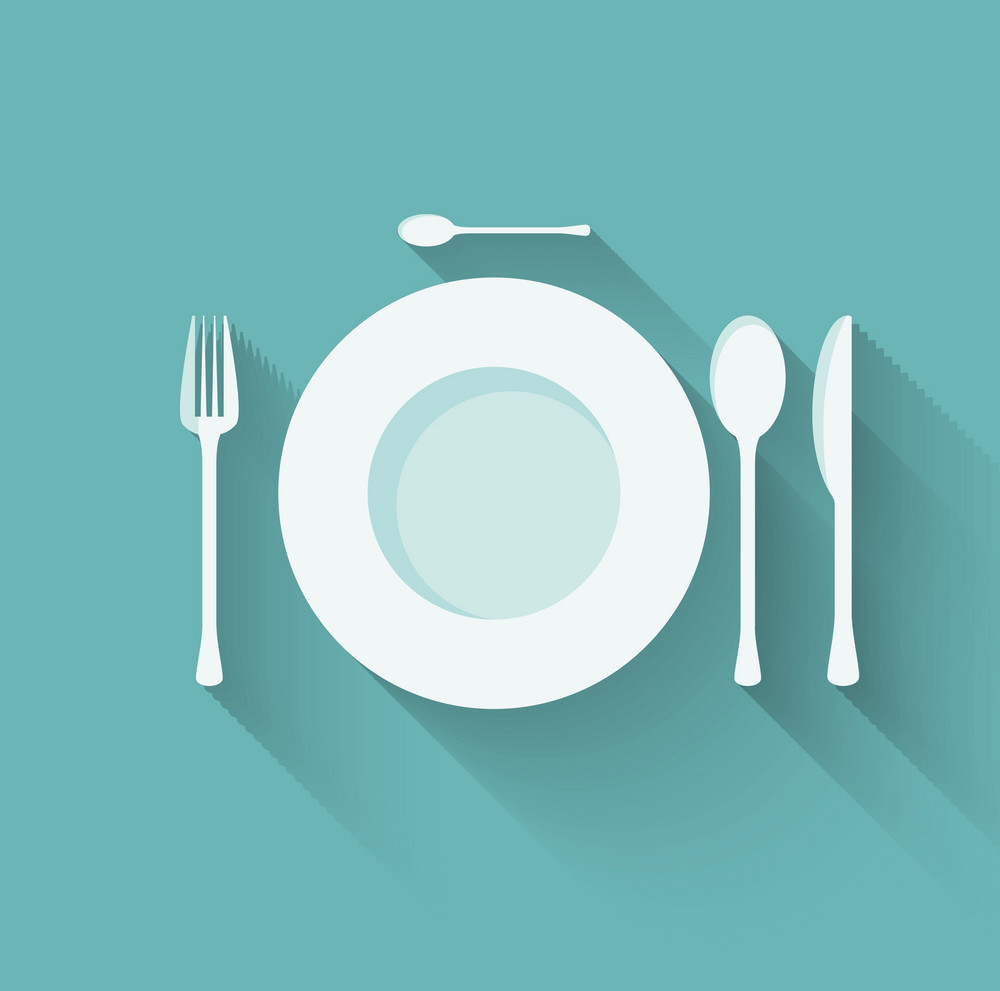
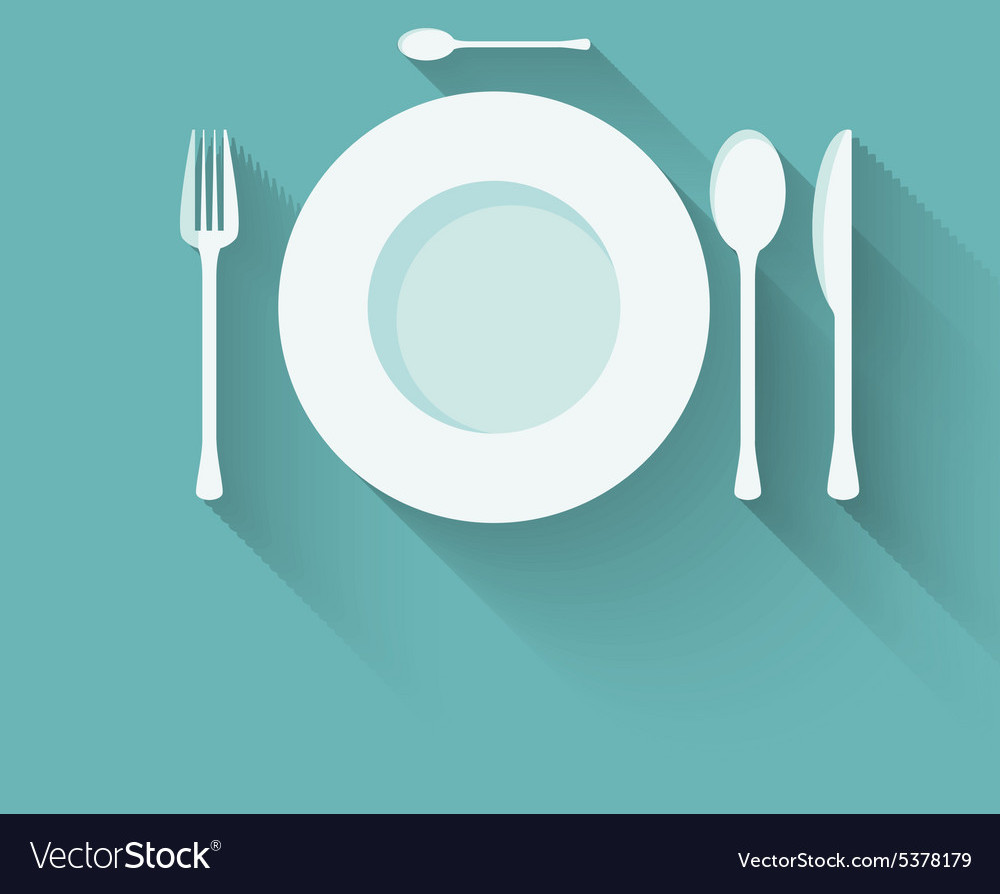
added default recipe photo & edited some of the dummy data in users (some usernames and passwords were not in the right format)

diff --git a/public/script/scripts.js b/public/script/scripts.js
@@ -563,16 +563,6 @@ $(document).ready(function() {
             document.getElementById("ltitle").value ='';
         }
 
-        if (thumb == ""){
-            document.getElementById("lThumb").textContent ='Please provide a thumbnail for your recipe post';
-            document.getElementById("lThumb").style.color = "red";
-            return false;
-        }
-        else {
-            document.getElementById("lThumb").style.color = "white";
-            document.getElementById("lThumb").textContent ='';
-        }
-
         if (desc == ""){
             document.getElementById("lDesc").textContent ='Please provide a brief description of your recipe';
             document.getElementById("lDesc").style.color = "red";
